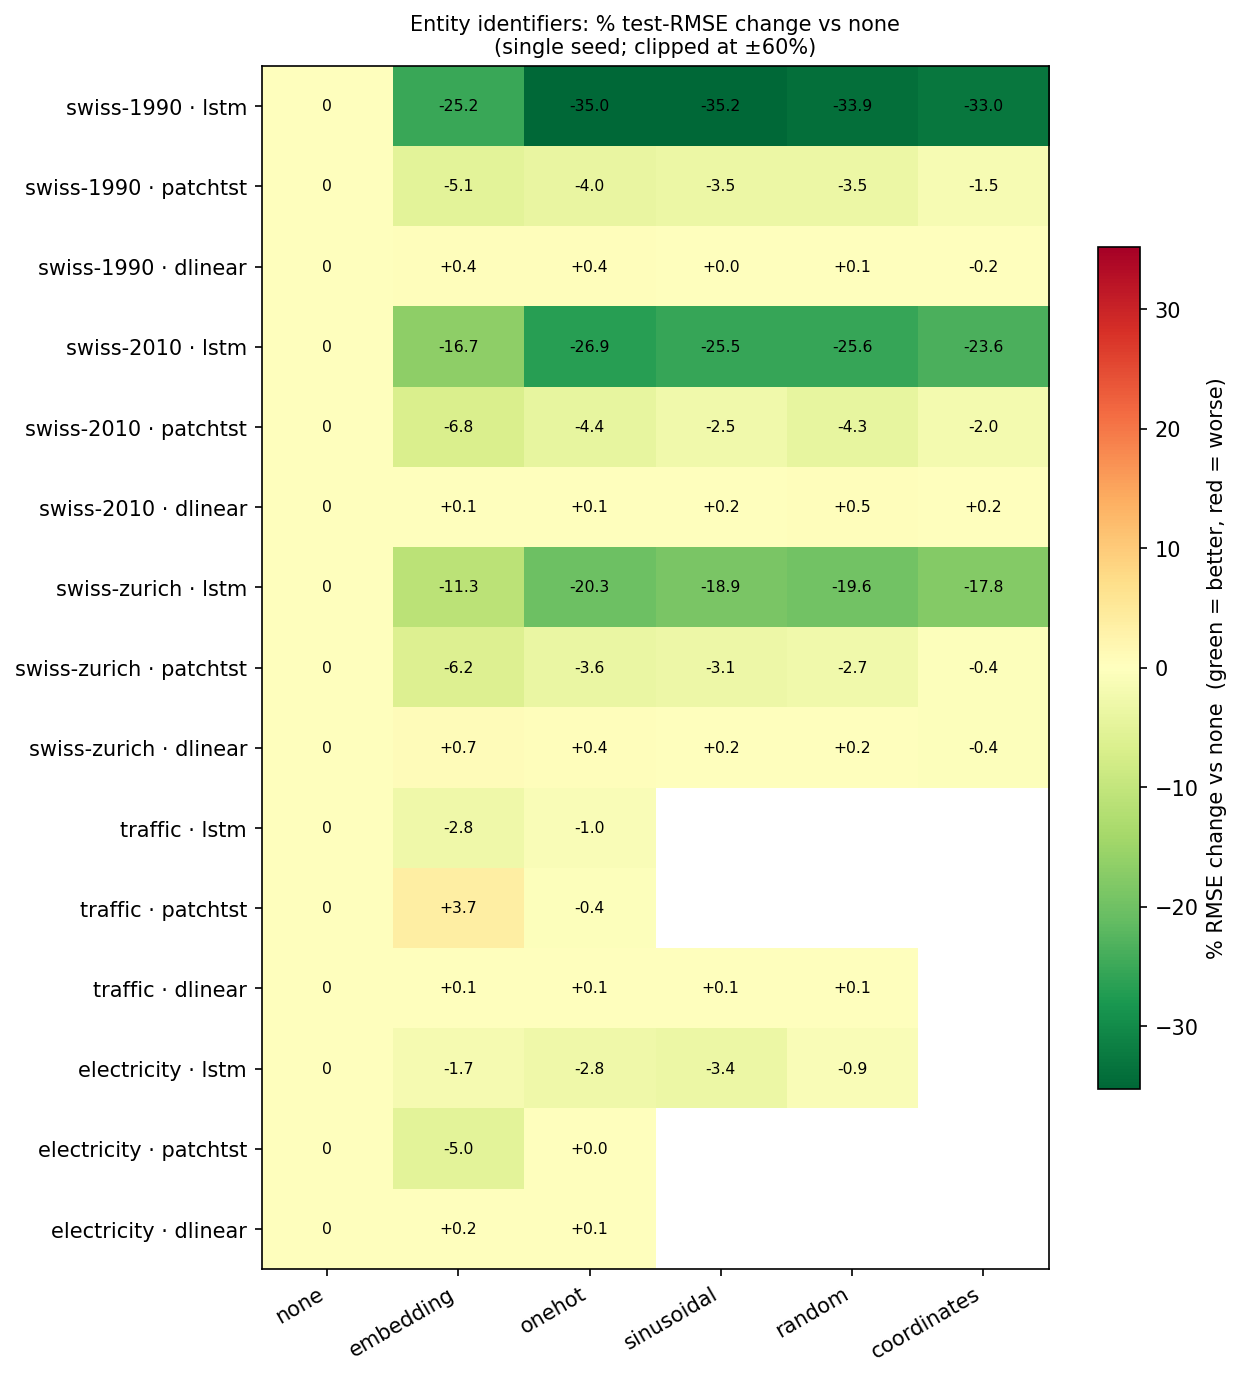
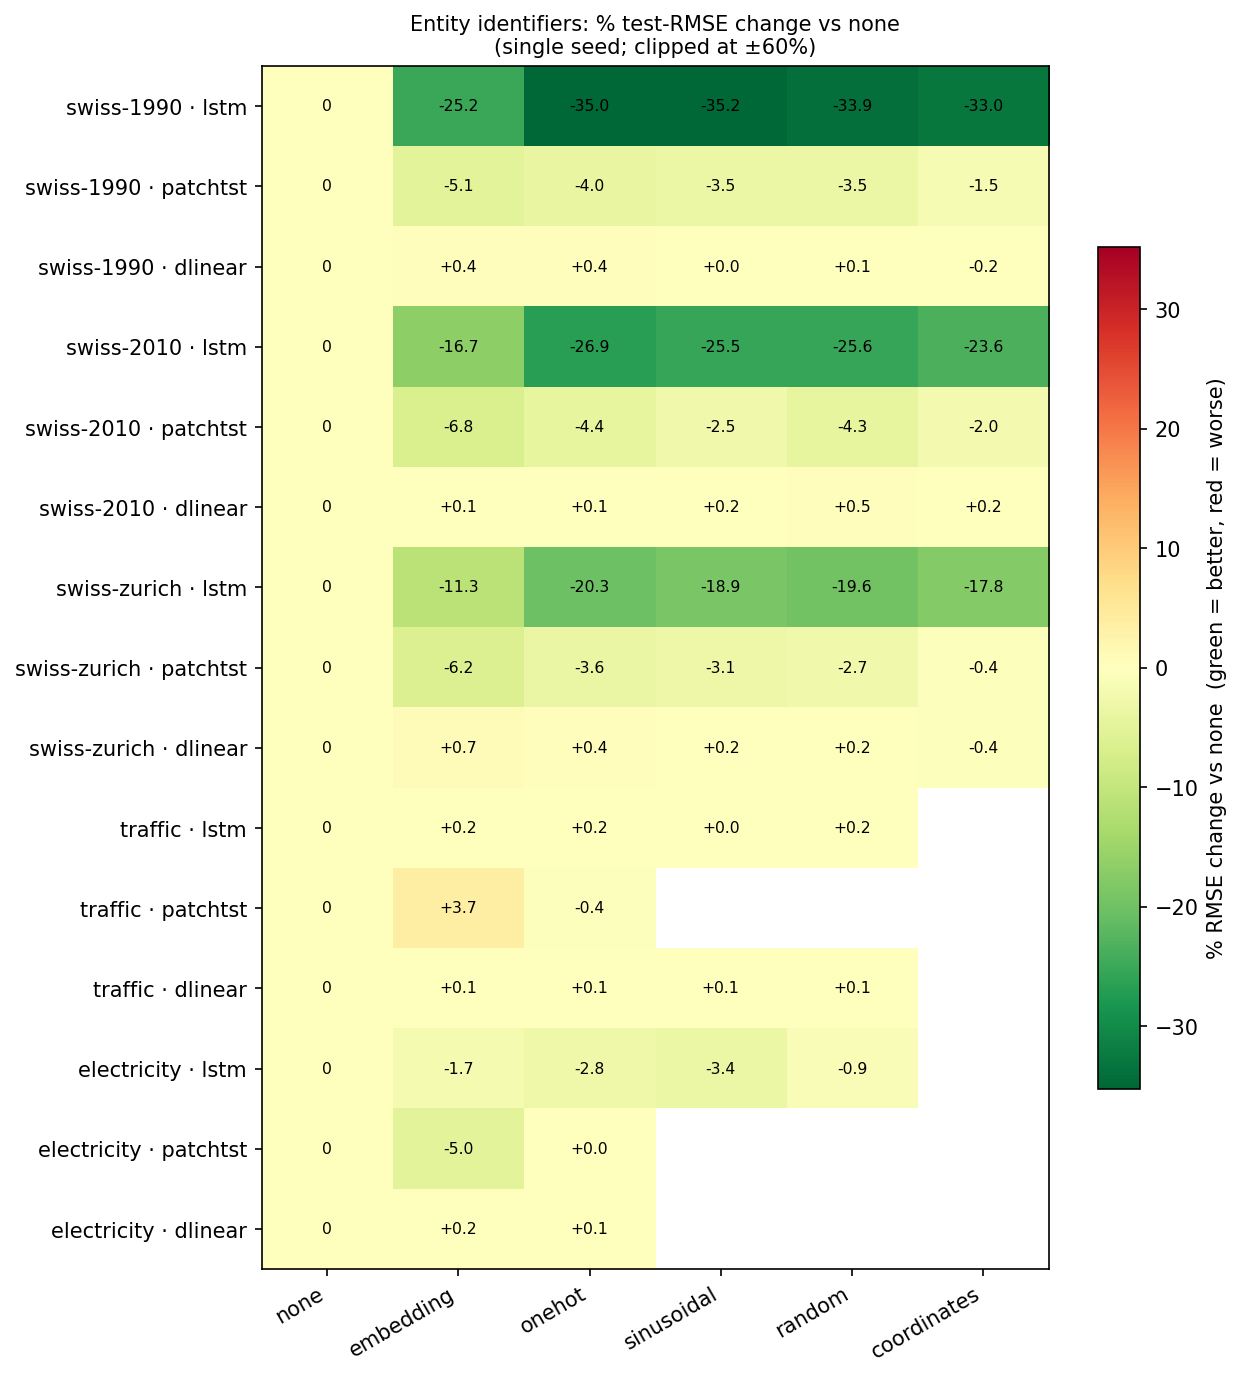
results(figures): traffic complete (5/5) — full entity-id matrix done
Traffic transparent modes finished via the Ray-oversize band-aid (FUNCTION_SIZE
+ gRPC limits raised). Traffic LSTM (June, mc) is FLAT across all 5 id-modes
(0.783-0.784) — identity has no effect on the 862-channel redundant data,
reinforcing the N2 regime/redundancy finding. 78 cells / 15 rows.

Changed region(s): [[0.5201, 0.5621, 0.7649, 0.6558], [0.4589, 0.5933, 0.4895, 0.6245]]

diff --git a/docs/research/figures/entity-id-summary/results-table.tex b/docs/research/figures/entity-id-summary/results-table.tex
@@ -17,7 +17,7 @@ swiss-zurich (°C) & lstm & 1.553 & 1.378 & \underline{\textbf{1.237}} & 1.259 &
  & patchtst & 1.480 & \underline{1.388} & 1.427 & 1.434 & 1.441 & 1.475 \\
  & dlinear & 1.390 & 1.401 & 1.396 & 1.393 & 1.393 & \underline{1.385} \\
 \midrule
-traffic (norm) & lstm & 0.806 & \underline{0.783} & 0.798 & -- & -- & -- \\
+traffic (norm) & lstm & \underline{0.783} & 0.784 & 0.784 & 0.783 & 0.784 & -- \\
  & patchtst & 0.659 & 0.683 & \underline{\textbf{0.656}} & -- & -- & -- \\
  & dlinear & \underline{0.799} & 0.800 & 0.800 & 0.800 & 0.800 & -- \\
 \midrule
